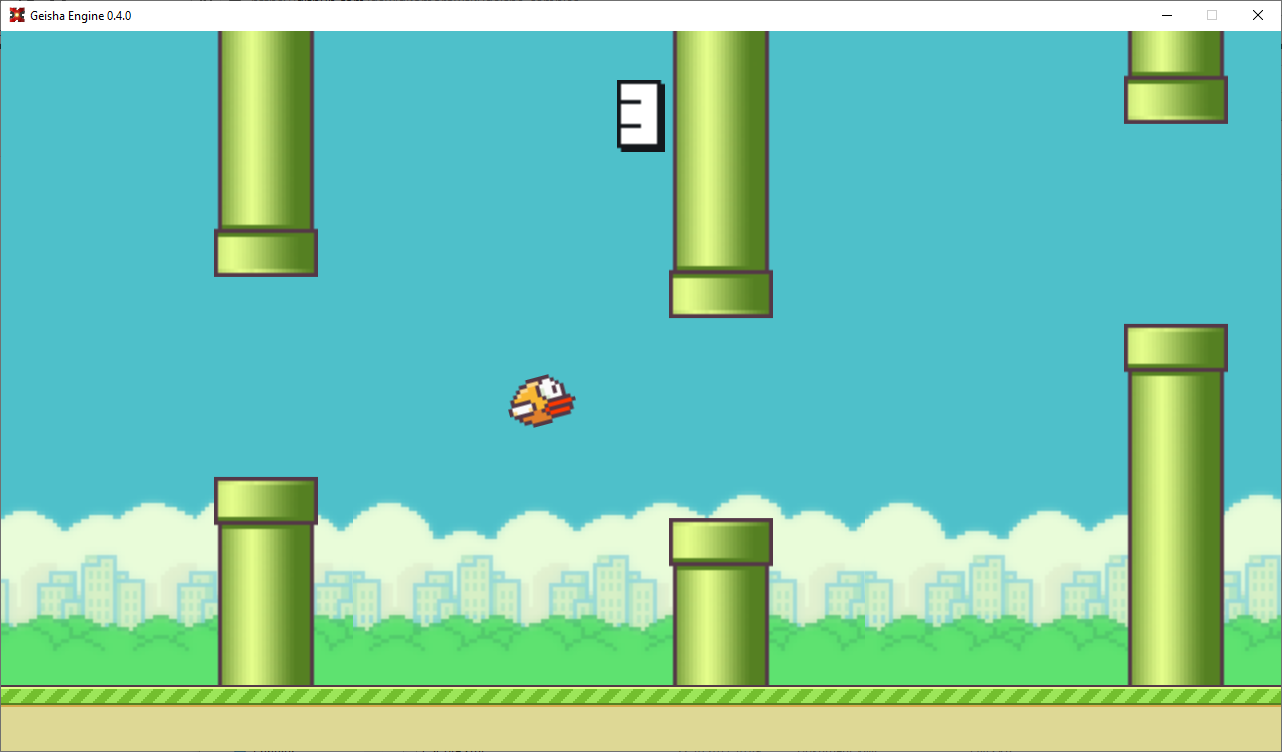
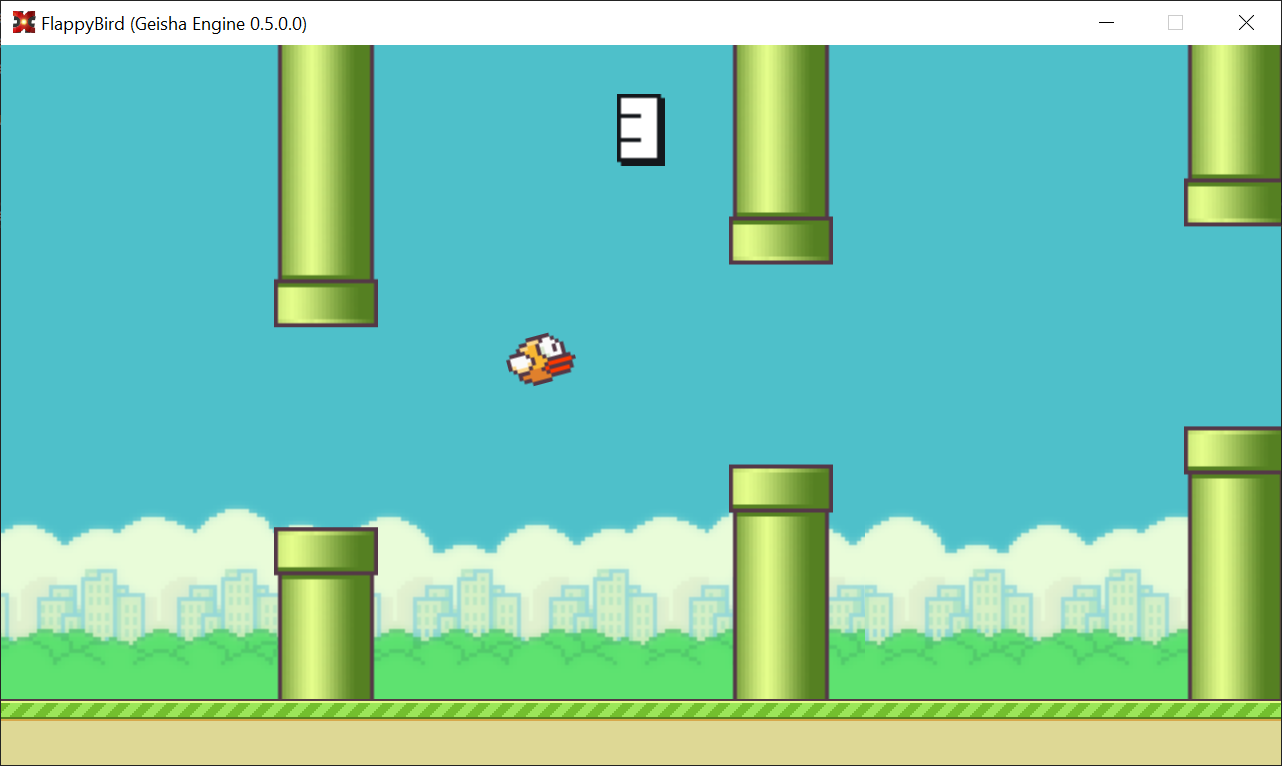
Updated screenshot.

diff --git a/FlappyBird/FlappyBirdGame.cs b/FlappyBird/FlappyBirdGame.cs
@@ -16,6 +16,6 @@ namespace FlappyBird
             componentsRegistry.AutofacContainerBuilder.RegisterType<EntityFactory>().As<IEntityFactory>();
         }
 
-        public string WindowTitle => $"Flappy Bird (Geisha Engine {Assembly.GetAssembly(typeof(IGame))?.GetName().Version})";
+        public string WindowTitle => $"FlappyBird (Geisha Engine {Assembly.GetAssembly(typeof(IGame))?.GetName().Version})";
     }
 }

diff --git a/FlappyBird/Program.cs b/FlappyBird/Program.cs
@@ -3,7 +3,6 @@ using Geisha.Engine.Windows;
 
 namespace FlappyBird
 {
-    // TODO Update screen shot (new window title).
     internal static class Program
     {
         /// <summary>
